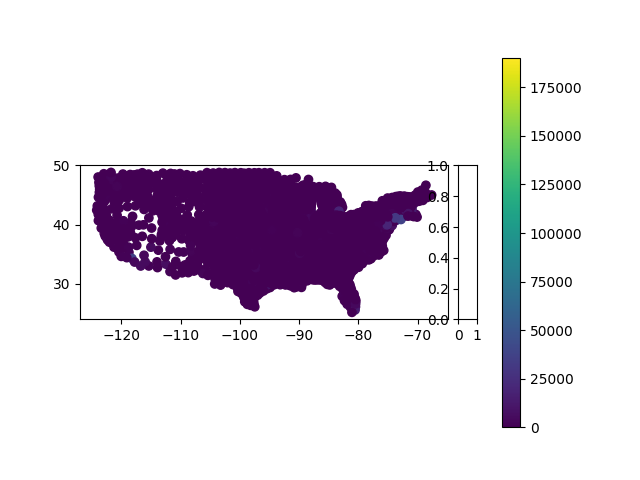
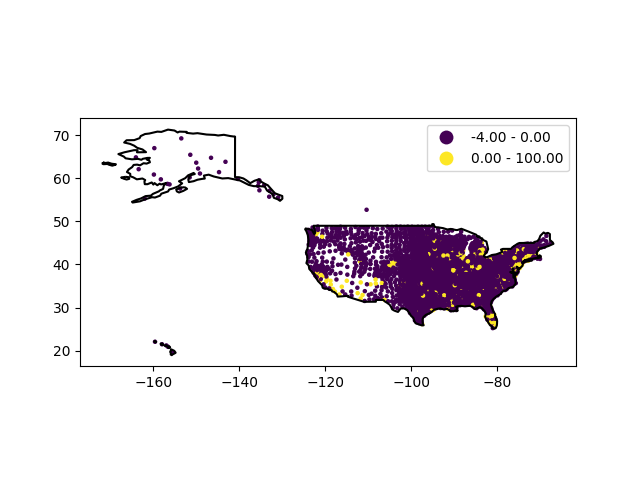
Add boundaries

diff --git a/main.py b/main.py
@@ -2,8 +2,10 @@ import geopandas as gpd
 import geoplot as gplt
 import pandas as pd
 import matplotlib.pyplot as plt
+import mpld3
 
-df = pd.read_csv('COVID-19/csse_covid_19_data/csse_covid_19_time_series/time_series_covid19_confirmed_US.csv')
+# df = pd.read_csv('COVID-19/csse_covid_19_data/csse_covid_19_time_series/time_series_covid19_confirmed_US.csv')
+df = pd.read_csv('COVID-19/csse_covid_19_data/csse_covid_19_time_series/time_series_covid19_deaths_US.csv')
 
 gdf = gpd.GeoDataFrame(
     df, geometry=gpd.points_from_xy(df.Long_, df.Lat)
@@ -13,26 +15,33 @@ gdf = gdf[
     (gdf.Province_State != 'American Samoa') &
     (gdf.Province_State != 'Northern Mariana Islands') &
     (gdf.Province_State != 'Virgin Islands') &
-    (gdf.Province_State != 'Hawaii') &
-    (gdf.Province_State != 'Alaska') &
+    # (gdf.Province_State != 'Hawaii') &
+    # (gdf.Province_State != 'Alaska') &
     (gdf.Province_State != 'Puerto Rico') &
     (gdf.Province_State != 'Diamond Princess') &
     (gdf.Province_State != 'Grand Princess') &
     (gdf.Long_ < -40.)
     ]  #['Guam', 'American Samoa', 'Northern Mariana Islands', 'Virgin Islands']]
 
-gdf.boundary.plot()
 fig = plt.figure()
 ax = fig.add_subplot(111)
 from mpl_toolkits.axes_grid1 import make_axes_locatable
-divider = make_axes_locatable(ax)
-cax = divider.append_axes('right', size='5%', pad=0.1)
+# divider = make_axes_locatable(ax)
+# cax = divider.append_axes('right', size='5%', pad=0.1)
+world = gpd.read_file(gpd.datasets.get_path('naturalearth_lowres'))
+world = world[world.name == 'United States of America']
+world.boundary.plot(ax=ax, color='k')
+gdf['difference'] = gdf['5/16/20'] - gdf['5/15/20']
+# gdf = gdf[(gdf['difference']> 0.)]
 
-gdf.plot(column='5/15/20', ax=ax, legend=True)
-# ax = gplt.polyplot(
+# cities = gpd.read_file(gplt.datasets.get_path('usa_cities'))
+gdf.plot(column='difference', ax=ax, legend=True, markersize=5, scheme='quantiles')
+# gplt.cartogram(gdf, scale='difference', ax=ax)
+# ax = gplt.polyplot
 #     gdf, projection=gplt.crs.Orthographic(), figsize=(8,4)
 # )
 # ax.outline_path.set_visible(True)
 #
 # gplt.show()
 plt.savefig('figure.png')
+# mpld3.save_html(fig, 'figure.html')
